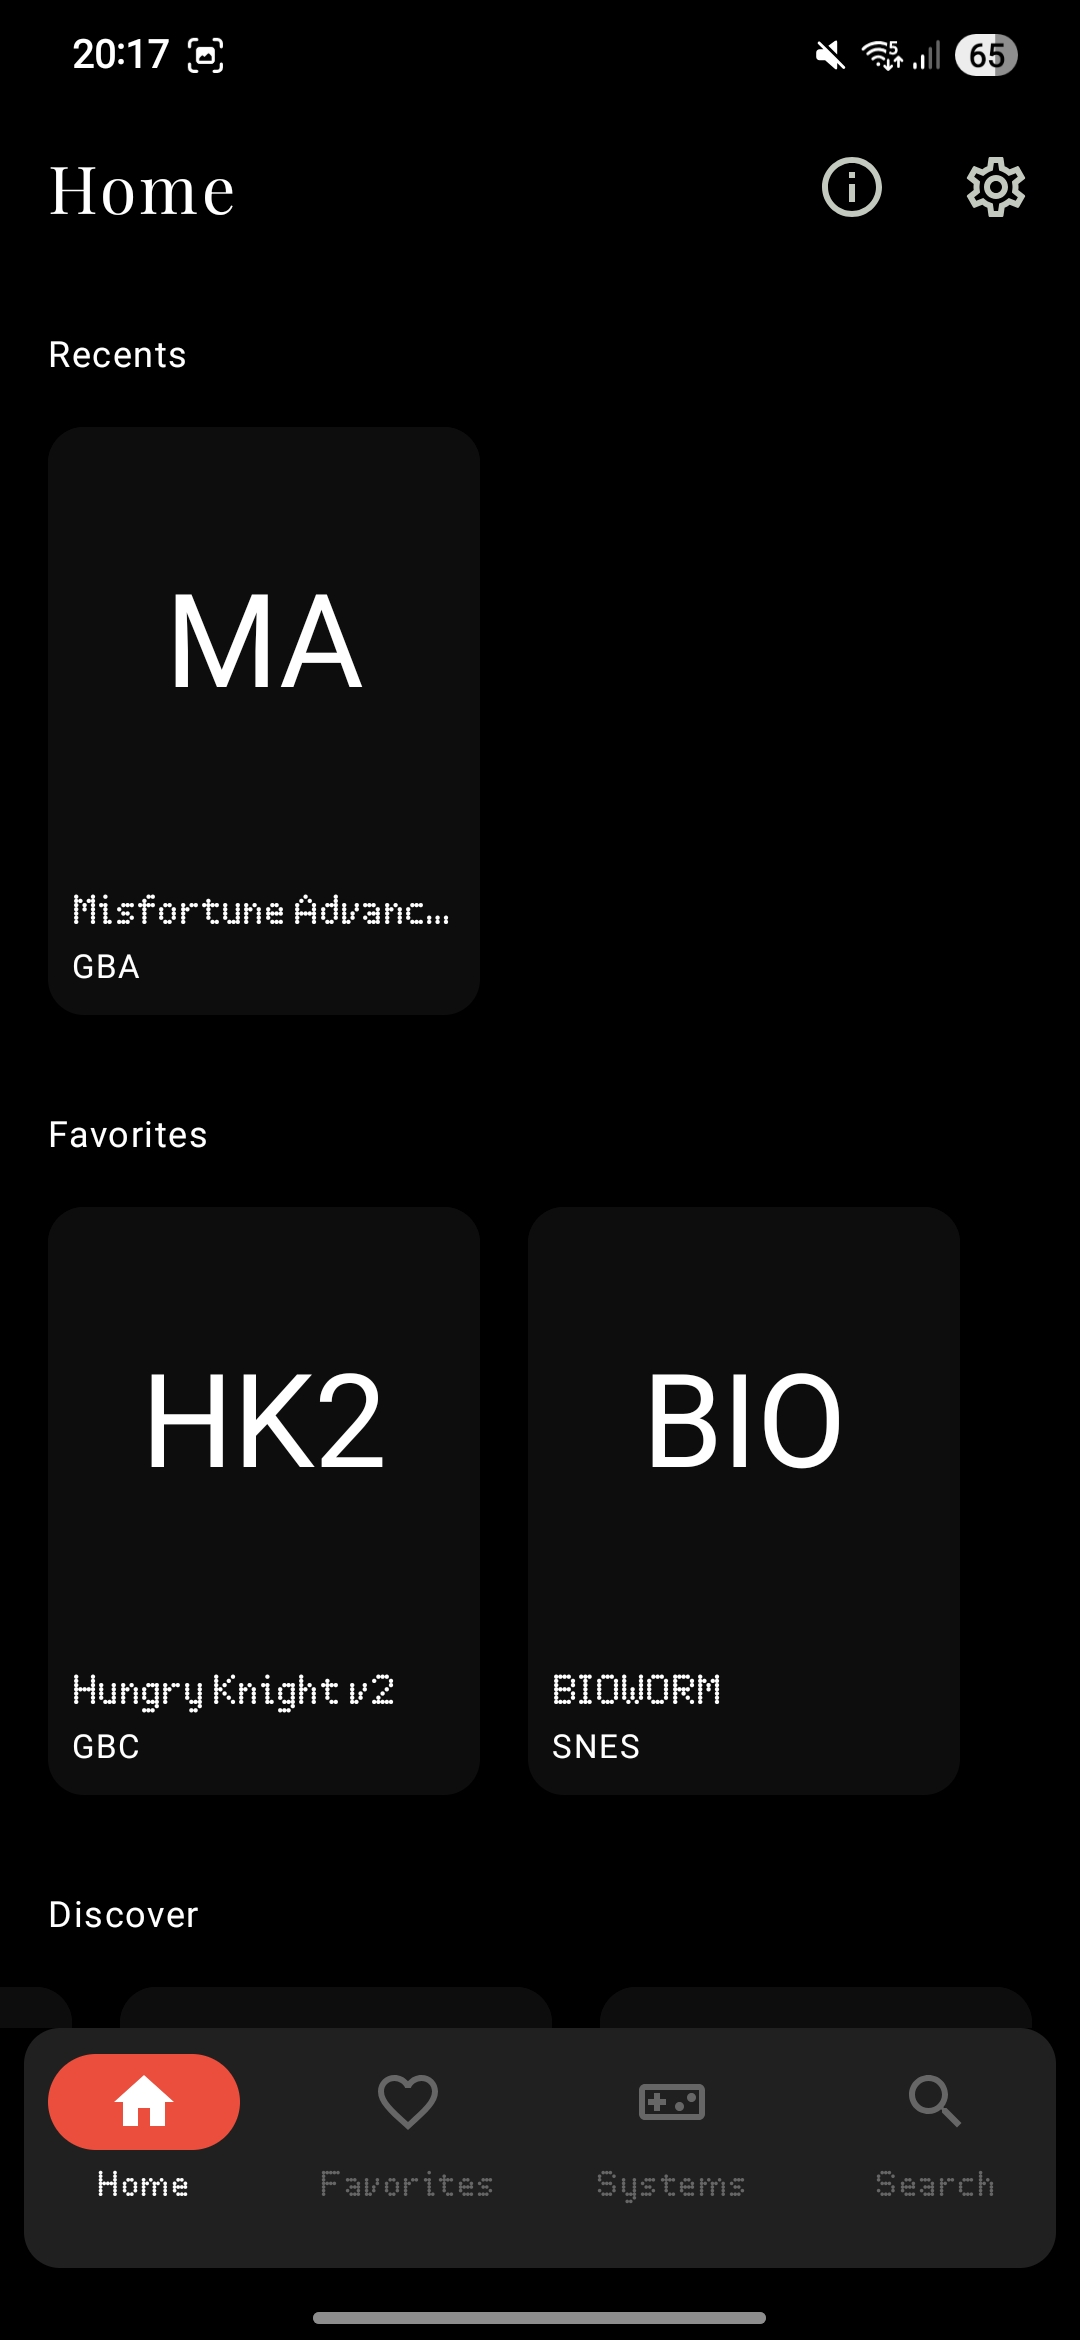
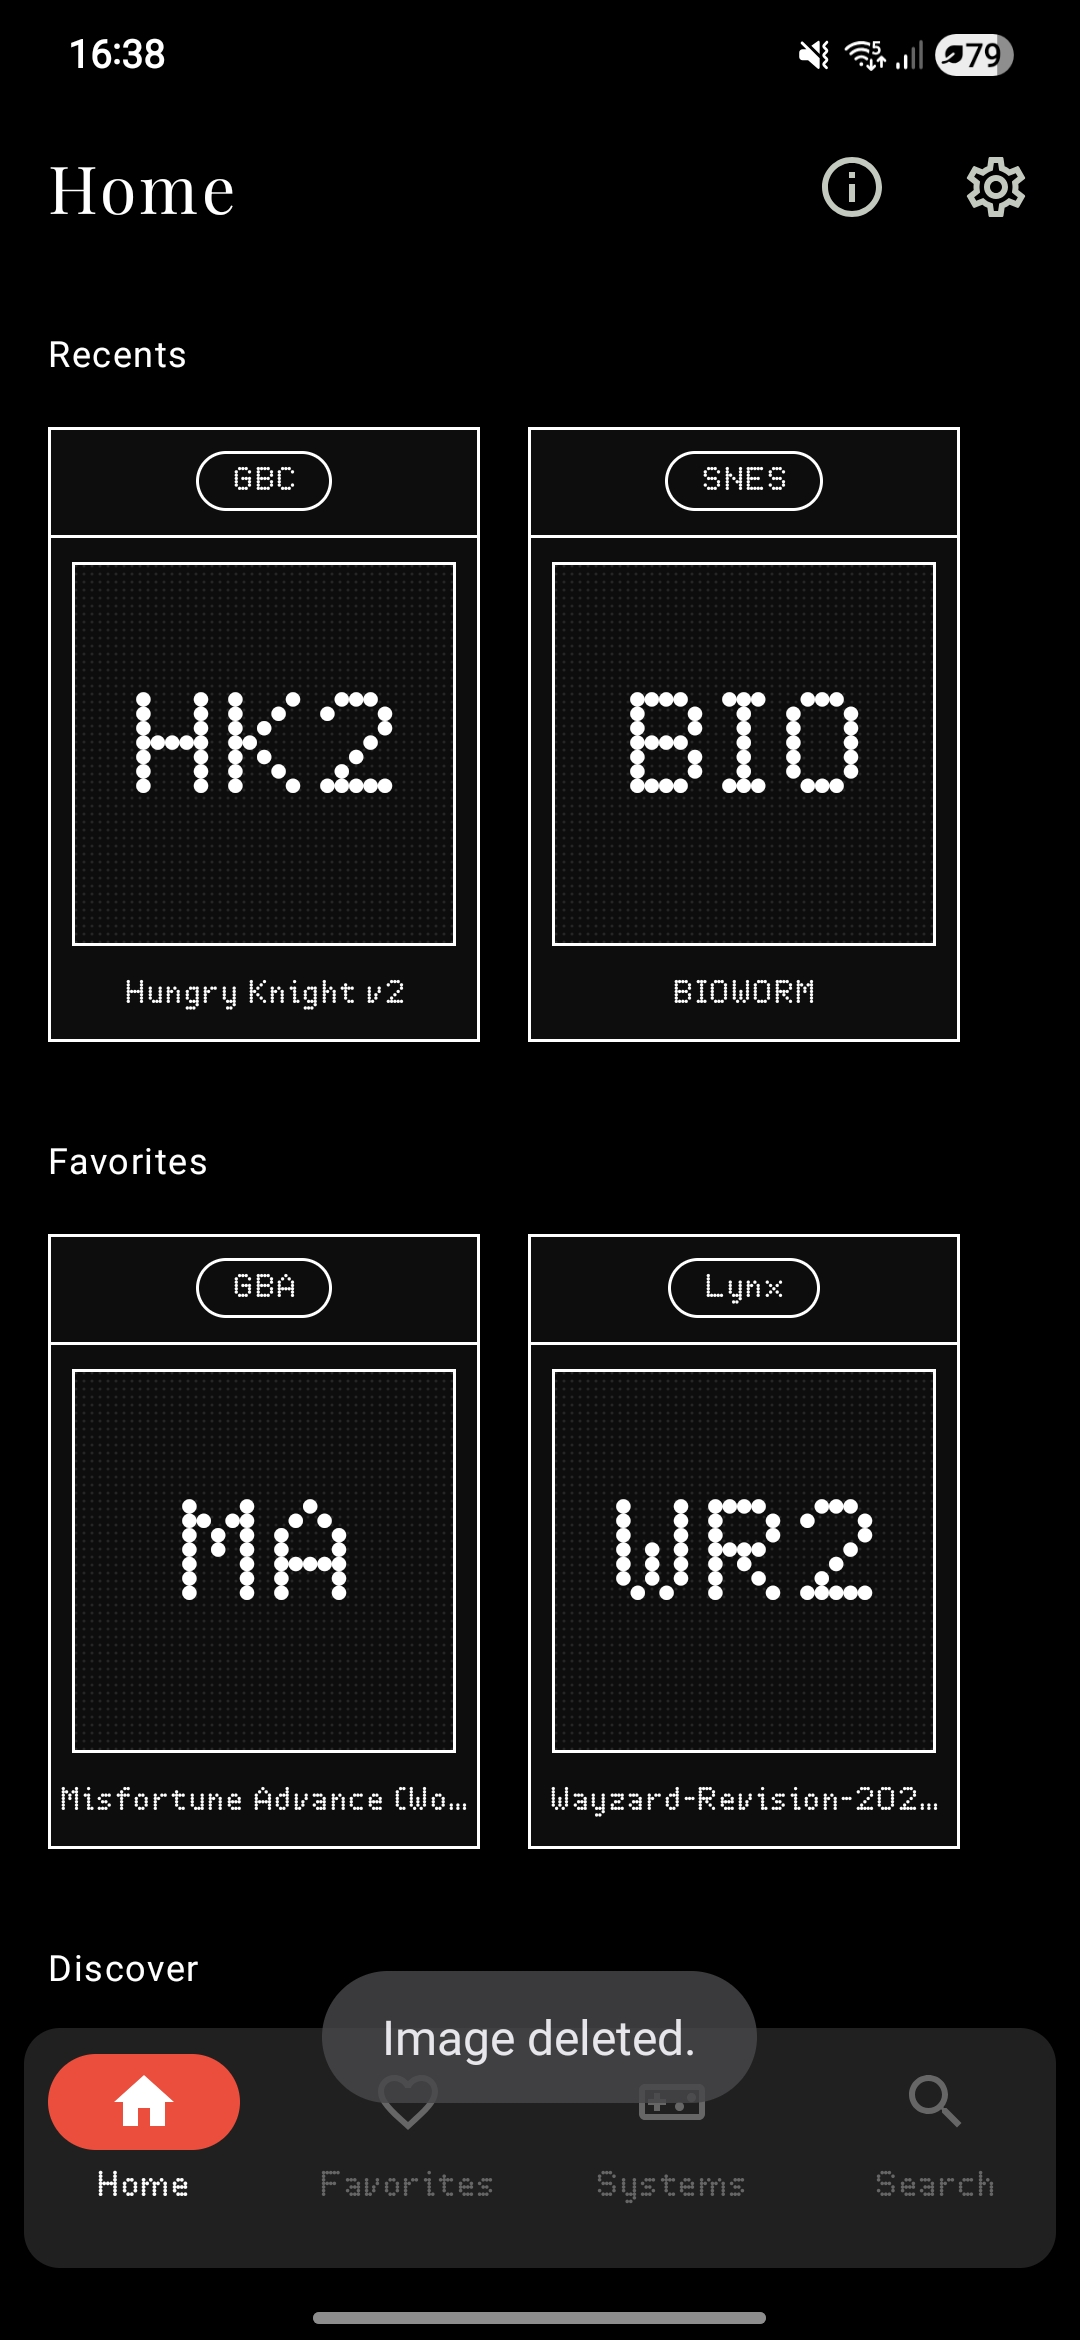
Finalize N-Lemuroid UI and Loading Experience
- Finalized monochrome cartridge style for Game and System cards with centralized colors.
- Integrated interactive BootingOverlay into BaseGameScreen to serve as the loading animation.
- Implemented reactive 'click-in' mechanism that triggers when the game engine is ready.
- Updated GameActivity theme and AppTheme for background transparency during loading.
- Updated README visuals with latest screenshots and boot animation video.

diff --git a/lemuroid-app/src/main/java/com/swordfish/lemuroid/app/mobile/shared/compose/ui/BootingOverlay.kt b/lemuroid-app/src/main/java/com/swordfish/lemuroid/app/mobile/shared/compose/ui/BootingOverlay.kt
@@ -1,63 +1,142 @@
 package com.swordfish.lemuroid.app.mobile.shared.compose.ui
 
 import androidx.compose.animation.core.Animatable
+import androidx.compose.animation.core.RepeatMode
+import androidx.compose.animation.core.animateFloat
+import androidx.compose.animation.core.infiniteRepeatable
+import androidx.compose.animation.core.rememberInfiniteTransition
 import androidx.compose.animation.core.tween
 import androidx.compose.foundation.background
 import androidx.compose.foundation.layout.Box
 import androidx.compose.foundation.layout.fillMaxSize
+import androidx.compose.foundation.layout.fillMaxWidth
+import androidx.compose.foundation.layout.height
 import androidx.compose.foundation.layout.offset
 import androidx.compose.foundation.layout.padding
 import androidx.compose.foundation.layout.size
+import androidx.compose.foundation.shape.RoundedCornerShape
+import androidx.compose.material3.Surface
 import androidx.compose.runtime.Composable
 import androidx.compose.runtime.LaunchedEffect
+import androidx.compose.runtime.getValue
+import androidx.compose.runtime.mutableStateOf
 import androidx.compose.runtime.remember
+import androidx.compose.runtime.setValue
 import androidx.compose.ui.Alignment
 import androidx.compose.ui.Modifier
 import androidx.compose.ui.graphics.Color
+import androidx.compose.ui.graphics.graphicsLayer
 import androidx.compose.ui.platform.LocalConfiguration
+import androidx.compose.ui.platform.LocalDensity
 import androidx.compose.ui.unit.IntOffset
 import androidx.compose.ui.unit.dp
 import com.swordfish.lemuroid.lib.library.db.entity.Game
+import kotlinx.coroutines.delay
 import kotlin.math.roundToInt
 
 @Composable
 fun BootingOverlay(
     game: Game,
+    isReady: Boolean,
     onAnimationFinished: () -> Unit
 ) {
     val configuration = LocalConfiguration.current
-    val screenHeightPx = with(androidx.compose.ui.platform.LocalDensity.current) {
+    val density = LocalDensity.current
+    val screenHeightPx = with(density) {
         configuration.screenHeightDp.dp.toPx()
     }
     
-    val yOffset = remember { Animatable(screenHeightPx * 0.2f) } // Start a bit below middle
+    // Navigation bar is 80dp + 24dp bottom padding = 104dp from bottom
+    val navBarHeightPx = with(density) { 104.dp.toPx() }
+    
+    // The top of the dock should be at the "height of the navigation bar"
+    val dockTargetY = (screenHeightPx / 2) - navBarHeightPx
+    val stickingOutOffsetPx = with(density) { 60.dp.toPx() }
+    
+    // Height to reach the bottom of the screen from the target Y
+    val dockHeightPx = navBarHeightPx + with(density) { 100.dp.toPx() } // Extra height to ensure it covers off-screen
+
+    val cartridgeYOffset = remember { Animatable(dockTargetY - stickingOutOffsetPx) }
+    val globalYOffset = remember { Animatable(0f) }
+    val contentAlpha = remember { Animatable(0f) }
+
+    var hasClickedIn by remember { mutableStateOf(false) }
+
+    val infiniteTransition = rememberInfiniteTransition(label = "bobbing")
+    val bobbingOffset by infiniteTransition.animateFloat(
+        initialValue = 0f,
+        targetValue = 15f,
+        animationSpec = infiniteRepeatable(
+            animation = tween(800),
+            repeatMode = RepeatMode.Reverse
+        ),
+        label = "bobbing"
+    )
 
     LaunchedEffect(Unit) {
-        // Slide up animation
-        yOffset.animateTo(
-            targetValue = -screenHeightPx,
-            animationSpec = tween(durationMillis = 800)
-        )
-        onAnimationFinished()
+        contentAlpha.animateTo(1f, animationSpec = tween(400))
+    }
+
+    LaunchedEffect(isReady) {
+        if (isReady && !hasClickedIn) {
+            cartridgeYOffset.animateTo(
+                targetValue = dockTargetY,
+                animationSpec = tween(durationMillis = 150)
+            )
+            hasClickedIn = true
+            delay(500)
+            
+            globalYOffset.animateTo(
+                targetValue = navBarHeightPx * 1.5f,
+                animationSpec = tween(durationMillis = 400)
+            )
+            
+            onAnimationFinished()
+        }
     }
 
     Box(
-        modifier = Modifier
-            .fillMaxSize()
-            .background(Color.Black),
+        modifier = Modifier.fillMaxSize(),
         contentAlignment = Alignment.Center
     ) {
         Box(
             modifier = Modifier
-                .offset { IntOffset(0, yOffset.value.roundToInt()) }
-                .padding(16.dp)
-                .size(width = 200.dp, height = 280.dp) // Adjusted size for the "cartridge" in animation
+                .fillMaxSize()
+                .graphicsLayer(alpha = contentAlpha.value),
+            contentAlignment = Alignment.Center
         ) {
-            LemuroidGameCard(
-                game = game,
-                onClick = {},
-                onLongClick = {}
-            )
+            // The Cartridge
+            Box(
+                modifier = Modifier
+                    .offset { 
+                        val bob = if (!hasClickedIn) bobbingOffset else 0f
+                        IntOffset(0, (cartridgeYOffset.value + globalYOffset.value + bob).roundToInt()) 
+                    }
+                    .padding(16.dp)
+                    .size(width = 160.dp, height = 210.dp)
+                    .background(AppCardBackground)
+            ) {
+                LemuroidGameCard(
+                    game = game,
+                    onClick = {},
+                    onLongClick = {}
+                )
+            }
+
+            // The Console Dock / Slot (Lowered to Nav Bar position)
+            Surface(
+                modifier = Modifier
+                    .align(Alignment.TopCenter)
+                    .offset { IntOffset(0, (screenHeightPx / 2 + dockTargetY + globalYOffset.value).roundToInt()) }
+                    .fillMaxWidth()
+                    .padding(horizontal = 8.dp)
+                    .height(with(density) { dockHeightPx.toDp() }),
+                color = AppDockBackground,
+                shape = RoundedCornerShape(topStart = 12.dp, topEnd = 12.dp, bottomStart = 0.dp, bottomEnd = 0.dp),
+                tonalElevation = 6.dp,
+                shadowElevation = 12.dp,
+                border = androidx.compose.foundation.BorderStroke(1.dp, Color.White)
+            ) {}
         }
     }
 }

diff --git a/lemuroid-app/src/main/java/com/swordfish/lemuroid/app/mobile/shared/compose/ui/LemuroidSystemCard.kt b/lemuroid-app/src/main/java/com/swordfish/lemuroid/app/mobile/shared/compose/ui/LemuroidSystemCard.kt
@@ -1,15 +1,28 @@
 package com.swordfish.lemuroid.app.mobile.shared.compose.ui
 
+import androidx.compose.foundation.background
+import androidx.compose.foundation.border
+import androidx.compose.foundation.clickable
+import androidx.compose.foundation.layout.Box
 import androidx.compose.foundation.layout.Column
 import androidx.compose.foundation.layout.fillMaxWidth
-import androidx.compose.material3.CardDefaults
-import androidx.compose.material3.ElevatedCard
+import androidx.compose.foundation.layout.padding
+import androidx.compose.foundation.shape.RoundedCornerShape
+import androidx.compose.material3.HorizontalDivider
+import androidx.compose.material3.MaterialTheme
+import androidx.compose.material3.Text
 import androidx.compose.runtime.Composable
 import androidx.compose.runtime.remember
+import androidx.compose.ui.Alignment
 import androidx.compose.ui.Modifier
 import androidx.compose.ui.platform.LocalContext
+import androidx.compose.ui.text.style.TextAlign
+import androidx.compose.ui.text.style.TextOverflow
+import androidx.compose.ui.tooling.preview.Preview
+import androidx.compose.ui.unit.dp
 import com.swordfish.lemuroid.R
 import com.swordfish.lemuroid.app.shared.systems.MetaSystemInfo
+import com.swordfish.lemuroid.lib.library.MetaSystemID
 
 @Composable
 fun LemuroidSystemCard(
@@ -32,18 +45,71 @@ fun LemuroidSystemCard(
             )
         }
 
-    ElevatedCard(
-        modifier = modifier,
-        onClick = onClick,
-        colors = CardDefaults.elevatedCardColors(containerColor = AppCardBackground),
+    Column(
+        modifier = modifier
+            .border(1.dp, AppCardBorder)
+            .background(AppCardBackground)
+            .clickable(onClick = onClick),
+        horizontalAlignment = Alignment.CenterHorizontally,
     ) {
-        Column(
-            modifier =
-                Modifier
-                    .fillMaxWidth(),
+        // System Name Pill at the top
+        Box(
+            modifier = Modifier
+                .padding(vertical = 8.dp)
+                .background(AppCardPillBackground, RoundedCornerShape(100))
+                .border(1.dp, AppCardBorder, RoundedCornerShape(100))
+                .padding(horizontal = 12.dp, vertical = 2.dp)
         ) {
-            LemuroidSystemImage(system)
-            LemuroidTexts(title = title, subtitle = subtitle)
+            Text(
+                text = title,
+                fontFamily = NdotFontFamily,
+                style = MaterialTheme.typography.labelSmall,
+                color = AppOnBackground,
+                textAlign = TextAlign.Center,
+                maxLines = 1,
+                overflow = TextOverflow.Ellipsis,
+            )
         }
+        
+        HorizontalDivider(color = AppCardBorder, thickness = 1.dp)
+
+        // System Image in the middle
+        Box(
+            modifier = Modifier
+                .fillMaxWidth()
+                .padding(8.dp),
+            contentAlignment = Alignment.Center
+        ) {
+            Box(
+                modifier = Modifier.border(1.dp, AppCardBorder)
+            ) {
+                LemuroidSystemImage(system)
+            }
+        }
+
+        // Info (Game Count) at the bottom
+        Text(
+            text = subtitle,
+            modifier = Modifier
+                .fillMaxWidth()
+                .padding(bottom = 8.dp, start = 4.dp, end = 4.dp),
+            fontFamily = NdotFontFamily,
+            style = MaterialTheme.typography.labelSmall,
+            color = AppOnBackground,
+            textAlign = TextAlign.Center,
+            maxLines = 1,
+            overflow = TextOverflow.Ellipsis,
+        )
+    }
+}
+
+@Preview
+@Composable
+fun LemuroidSystemCardPreview() {
+    AppTheme {
+        LemuroidSystemCard(
+            system = MetaSystemInfo(MetaSystemID.GBC, 12),
+            onClick = {}
+        )
     }
 }

diff --git a/lemuroid-app/src/main/java/com/swordfish/lemuroid/app/shared/game/BaseGameScreen.kt b/lemuroid-app/src/main/java/com/swordfish/lemuroid/app/shared/game/BaseGameScreen.kt
@@ -1,19 +1,12 @@
 package com.swordfish.lemuroid.app.shared.game
 
-import androidx.compose.animation.AnimatedVisibility
-import androidx.compose.foundation.layout.Arrangement
-import androidx.compose.foundation.layout.Box
-import androidx.compose.foundation.layout.Column
-import androidx.compose.foundation.layout.fillMaxSize
-import androidx.compose.foundation.layout.wrapContentSize
-import androidx.compose.material3.CircularProgressIndicator
-import androidx.compose.material3.MaterialTheme
-import androidx.compose.material3.Text
 import androidx.compose.runtime.Composable
 import androidx.compose.runtime.collectAsState
-import androidx.compose.ui.Alignment
-import androidx.compose.ui.Modifier
-import androidx.compose.ui.unit.dp
+import androidx.compose.runtime.getValue
+import androidx.compose.runtime.mutableStateOf
+import androidx.compose.runtime.remember
+import androidx.compose.runtime.setValue
+import com.swordfish.lemuroid.app.mobile.shared.compose.ui.BootingOverlay
 import com.swordfish.lemuroid.app.shared.game.viewmodel.GameViewModelRetroGameView
 
 @Composable
@@ -30,25 +23,17 @@ fun BaseGameScreen(
         gameState is GameViewModelRetroGameView.GameState.Loaded ||
             gameState is GameViewModelRetroGameView.GameState.Ready
 
-    if (isGameReady) {
+    var animationFinished by remember { mutableStateOf(false) }
+
+    if (isGameReady && animationFinished) {
         gameScreen(viewModel)
     } else {
-        Box(
-            modifier = Modifier.fillMaxSize(),
-            contentAlignment = Alignment.Center,
-        ) {
-            Column(
-                modifier = Modifier.wrapContentSize(),
-                verticalArrangement = Arrangement.spacedBy(16.dp),
-                horizontalAlignment = Alignment.CenterHorizontally,
-            ) {
-                CircularProgressIndicator()
-
-                val message = if (gameState is GameViewModelRetroGameView.GameState.Loading) gameState.message else null
-                AnimatedVisibility(message != null) {
-                    Text(text = message!!, color = MaterialTheme.colorScheme.onBackground)
-                }
+        BootingOverlay(
+            game = viewModel.game,
+            isReady = isGameReady,
+            onAnimationFinished = {
+                animationFinished = true
             }
-        }
+        )
     }
 }

diff --git a/lemuroid-app/src/main/java/com/swordfish/lemuroid/app/mobile/shared/compose/ui/LemuroidTheme.kt b/lemuroid-app/src/main/java/com/swordfish/lemuroid/app/mobile/shared/compose/ui/LemuroidTheme.kt
@@ -83,13 +83,18 @@ private val DarkColorScheme =
 @Composable
 fun AppTheme(
     darkTheme: Boolean = true,
+    useSurface: Boolean = true,
     content: @Composable () -> Unit,
 ) {
     // Dynamic color uitgeschakeld — Nothing rood altijd actief
     val colors = if (darkTheme) DarkColorScheme else LightColorScheme
 
     MaterialTheme(colorScheme = colors) {
-        Surface(color = MaterialTheme.colorScheme.background) {
+        if (useSurface) {
+            Surface(color = MaterialTheme.colorScheme.background) {
+                content()
+            }
+        } else {
             content()
         }
     }

diff --git a/lemuroid-app/src/debug/java/com/swordfish/lemuroid/app/mobile/shared/compose/ui/Color.kt b/lemuroid-app/src/debug/java/com/swordfish/lemuroid/app/mobile/shared/compose/ui/Color.kt
@@ -12,6 +12,9 @@ val AppCardBackground = Color(0xFF0D0D0D)
 val AppOnCard = Color(0xFFF0F0F0)
 val AppPrimary = Color(0xFFFF3B30)
 
+val AppCardBorder = Color.White
+val AppCardPillBackground = Color.Transparent
+
 val md_theme_light_primary = AppPrimary
 val md_theme_light_onPrimary = Color(0xFFFFFFFF)
 val md_theme_light_primaryContainer = Color(0xC8FF3B30)

diff --git a/lemuroid-app/src/release/java/com/swordfish/lemuroid/app/mobile/shared/compose/ui/Color.kt b/lemuroid-app/src/release/java/com/swordfish/lemuroid/app/mobile/shared/compose/ui/Color.kt
@@ -12,6 +12,9 @@ val AppCardBackground = Color(0xFF0D0D0D)
 val AppOnCard = Color(0xFFF0F0F0)
 val AppPrimary = Color(0xFFFF3B30)
 
+val AppCardBorder = Color.White
+val AppCardPillBackground = Color.Transparent
+
 val md_theme_light_primary = AppPrimary
 val md_theme_light_onPrimary = Color(0xFFFFFFFF)
 val md_theme_light_primaryContainer = Color(0xFF6BFF84)

diff --git a/lemuroid-app/src/main/java/com/swordfish/lemuroid/app/shared/game/BaseGameActivity.kt b/lemuroid-app/src/main/java/com/swordfish/lemuroid/app/shared/game/BaseGameActivity.kt
@@ -120,7 +120,7 @@ abstract class BaseGameActivity : ImmersiveActivity() {
         lifecycle.addObserver(baseGameScreenViewModel)
 
         setContent {
-            AppTheme {
+            AppTheme(useSurface = false) {
                 BaseGameScreen(viewModel = baseGameScreenViewModel) {
                     GameScreen(viewModel)
                 }

diff --git a/lemuroid-app/src/main/java/com/swordfish/lemuroid/app/shared/game/BaseGameScreenViewModel.kt b/lemuroid-app/src/main/java/com/swordfish/lemuroid/app/shared/game/BaseGameScreenViewModel.kt
@@ -46,7 +46,7 @@ import timber.log.Timber
 
 class BaseGameScreenViewModel(
     private val appContext: Context,
-    game: Game,
+    val game: Game,
     settingsManager: SettingsManager,
     inputDeviceManager: InputDeviceManager,
     controllerConfigsManager: ControllerConfigsManager,